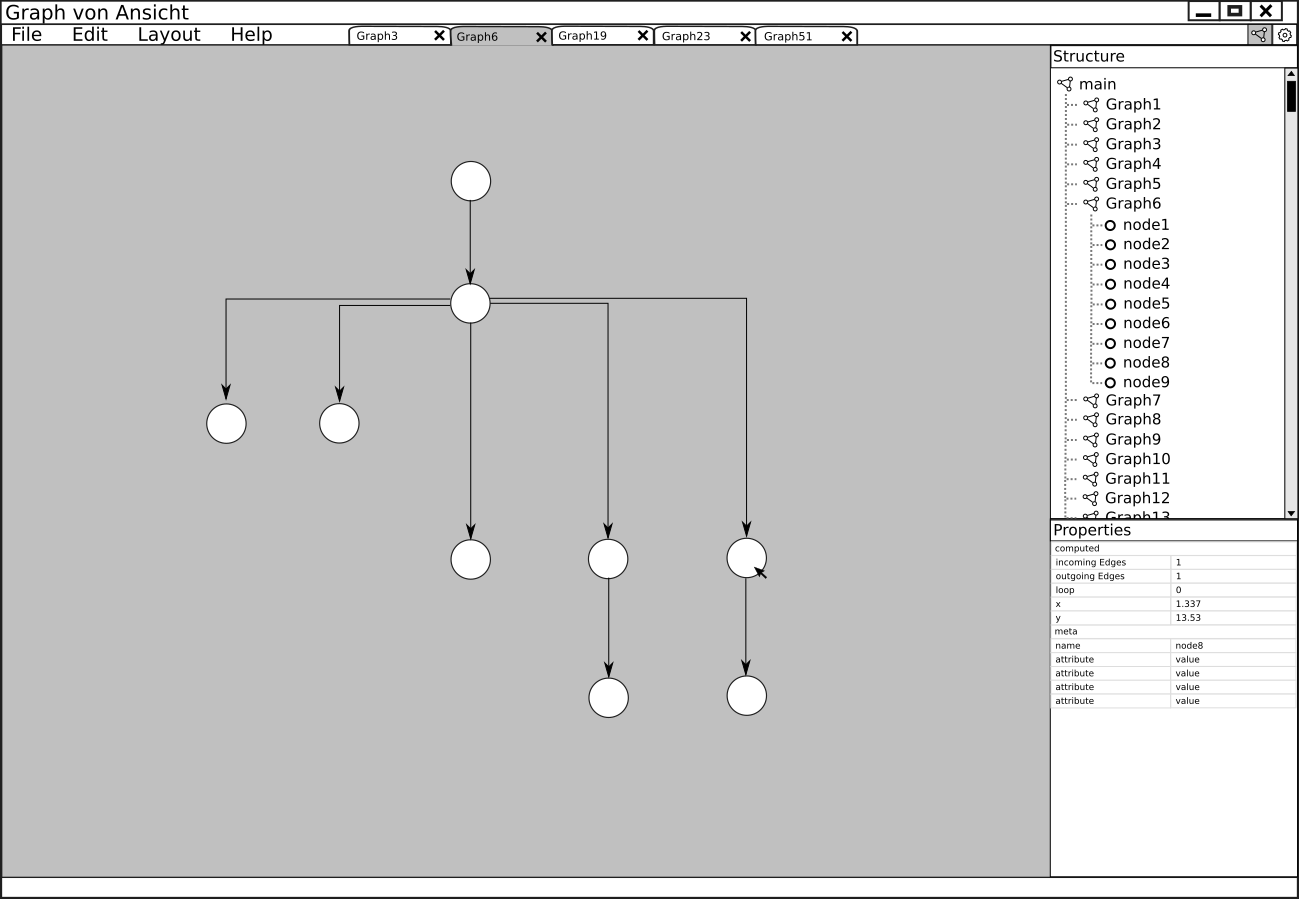
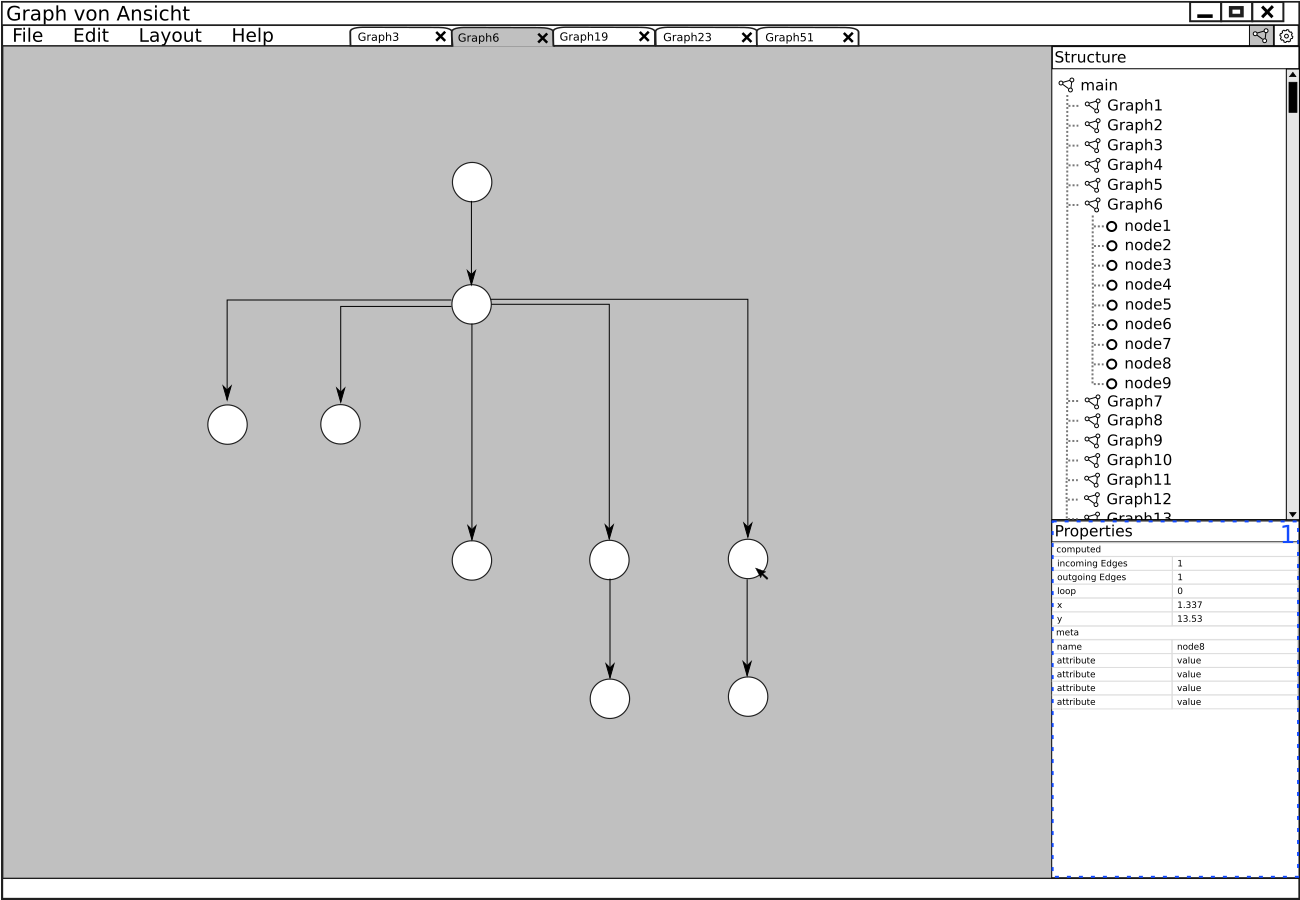
adds a component reference to GUI prototypes

diff --git a/pflichtenheft/benutzerschnittstellen.tex b/pflichtenheft/benutzerschnittstellen.tex
@@ -27,6 +27,8 @@ Die graphische Oberfläche bietet dem Benutzer ein interaktives Interface und ei
 
 \subsection{Entwürfe}
 
+Bemerkungen zu den folgenden Entwurfsabbildungen: Die Funktionalität weicht in der Implementierung eventuell von der Darstellung hier ab. Die Darstellung dient lediglich einer generellen Übersicht der GUI und ist als solche als Prototyp zu verstehen.
+
 \begin{figure}[ht]
   \centering
   \includegraphics[width=380pt]{resourcen/gui_view_treeview.png}
@@ -146,3 +148,17 @@ Die graphische Oberfläche bietet dem Benutzer ein interaktives Interface und ei
   \caption{Übersichtsanzeige des aktuellen Graphen}
   \label{fig:gui_view_minimap}
 \end{figure}
+
+\begin{table}[!h]
+  \caption{\gls{gui} Komponenten Referenzen}
+  \begin{tabular}{lll}
+    GUI Komponente & Abbildung & Referenznummer\\
+    Graphansicht\label{gui:graphansicht} & \ref{fig:gui_view_treeview} & 1 \\
+    Strukturansicht\label{gui:strukturansicht} & \ref{fig:gui_view_treeview} & 2 \\
+    Tableiste\label{gui:tableiste} & \ref{fig:gui_view_treeview} & 3\\
+    Menüleiste\label{gui:menuleiste} & \ref{fig:gui_view_treeview} & 4\\
+    Hauptansicht(Fenster)\label{gui:hauptansicht} & \ref{fig:gui_view_treeview} & 5\\
+    Informationsansicht\label{gui:informationsansicht} & \ref{fig:gui_view_showInfoInProperties_node} & 1 \\
+  \end{tabular}
+  \label{tab:guicomponents}
+\end{table}
